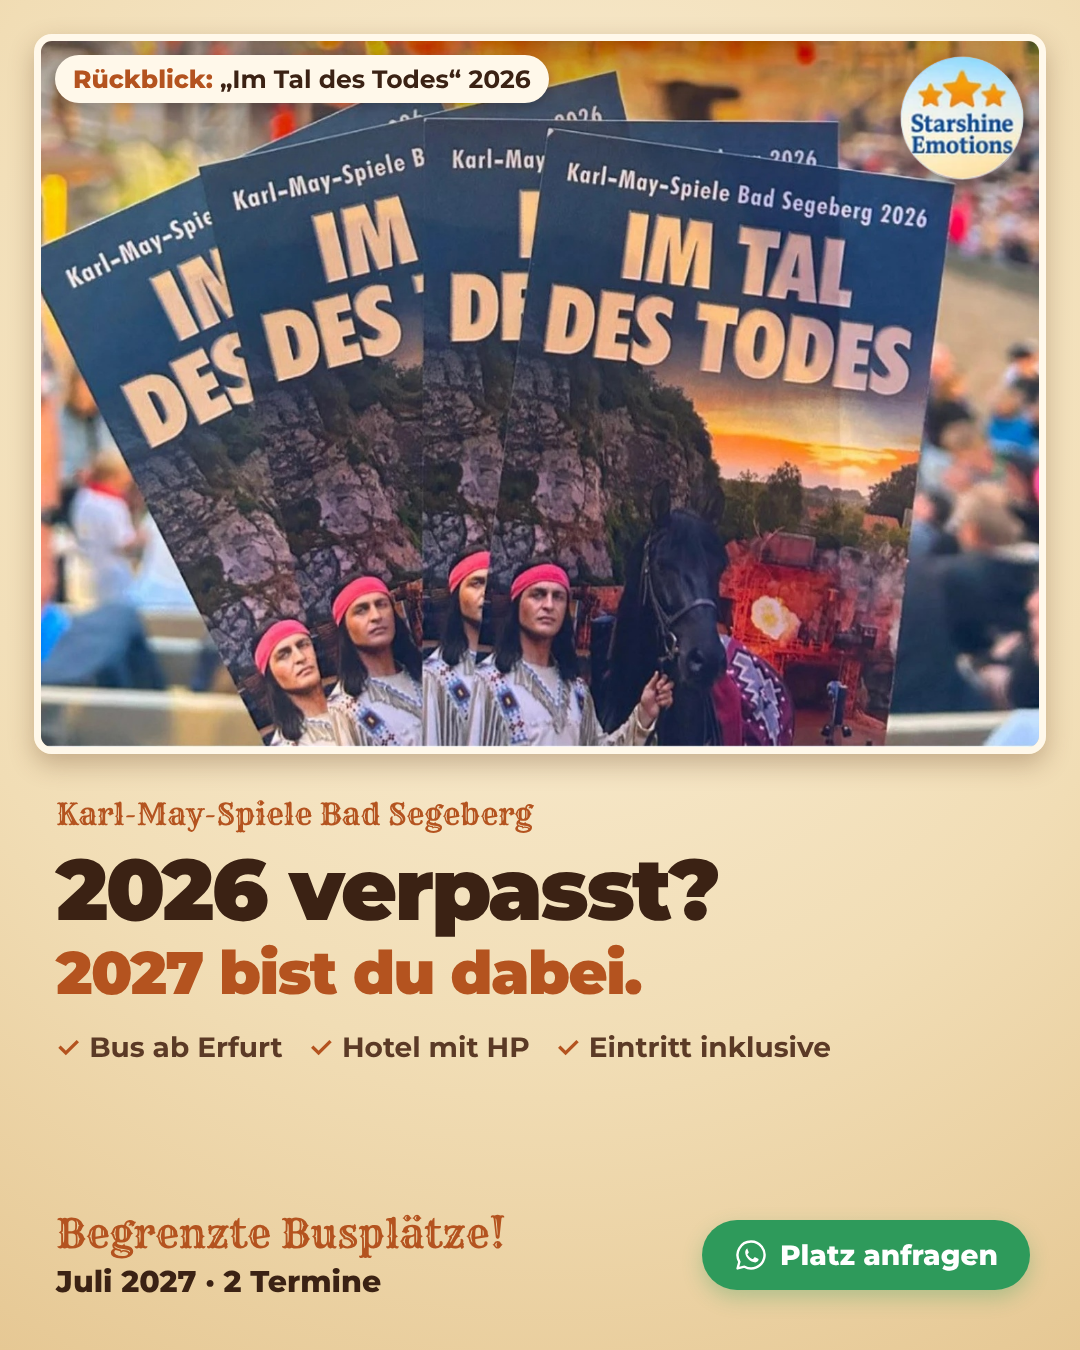
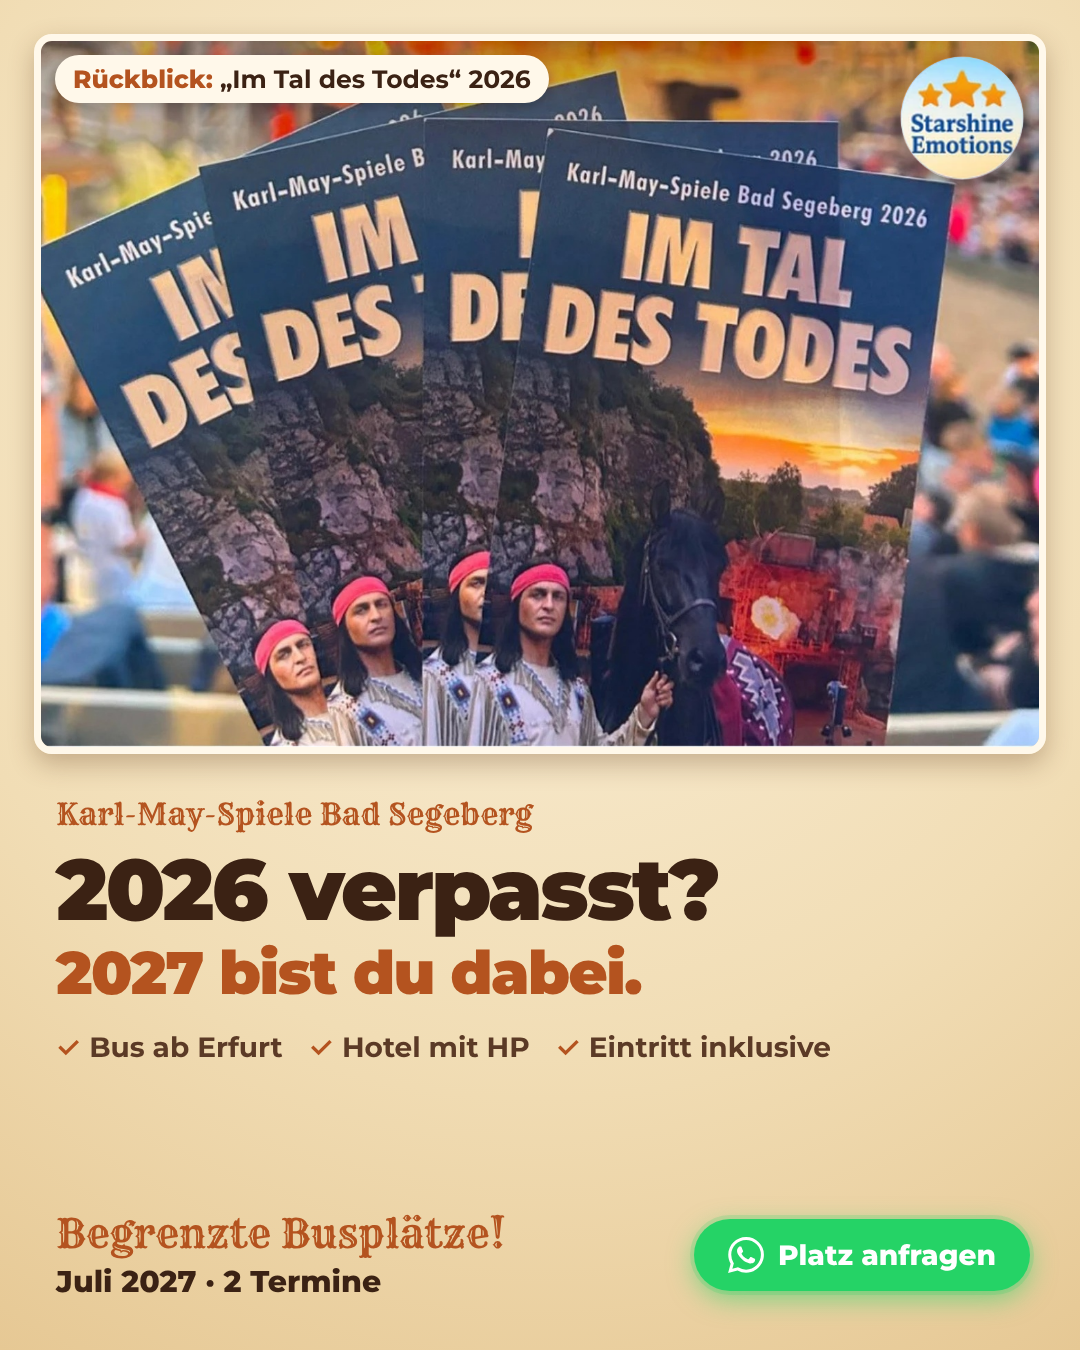
Official WhatsApp glyph and brighter button on posts 01/02; new western ticket post 04
Claude-Session: https://claude.ai/code/session_01MYsT5PUrxmX4pbkuNXz2ag

Changed region(s): [[0.6417, 0.9022, 0.9778, 0.9644]]

diff --git a/creatives/organic/04-mitfahren.html b/creatives/organic/04-mitfahren.html
@@ -1,22 +1,34 @@
 <!doctype html><html><head><meta charset="utf-8"><link href="https://fonts.googleapis.com/css2?family=Rye&family=Montserrat:wght@500;600;700;800;900&display=swap" rel="stylesheet"><link rel="stylesheet" href="_base.css"><style>
-.ad{background:#3a0d2e}
-.photo{position:absolute;left:0;top:0;width:1080px;height:601px;object-fit:cover}
-.fade{position:absolute;left:0;top:440px;width:1080px;height:182px;background:linear-gradient(180deg,rgba(58,13,46,0),#3a0d2e)}
-.k{position:absolute;top:44px;left:50px;font-family:Rye,serif;font-size:36px;color:#FBEBD0;text-shadow:0 2px 0 #6b2a12,0 4px 14px rgba(0,0,0,.6)}
-.card{position:absolute;left:50px;right:50px;top:560px;bottom:56px;background:#F6ECDD;border-radius:30px;padding:56px 56px 0;color:#3a0d2e;box-shadow:0 20px 50px rgba(0,0,0,.4)}
-.badge{position:absolute;top:-34px;right:40px;background:#D9342B;color:#fff;font-weight:900;font-size:26px;letter-spacing:1px;padding:16px 26px;border-radius:12px;transform:rotate(3deg);box-shadow:0 8px 20px rgba(0,0,0,.35)}
-.h{font-weight:900;font-size:62px;line-height:1.05;letter-spacing:-1.5px}
+.ad{background:radial-gradient(circle at 50% 30%,#FBF0D9 0%,#F1DDB5 60%,#E6C894 100%)}
+.photo{position:absolute;left:34px;right:34px;top:34px;height:560px;border-radius:18px;overflow:hidden;border:7px solid #FFF8EA;box-shadow:0 10px 26px rgba(90,50,20,.3)}
+.photo img{width:100%;height:100%;object-fit:cover;object-position:50% 70%;display:block}
+.photo span{position:absolute;left:14px;top:14px;background:#FFF8EA;color:#3B2214;font-weight:700;font-size:25px;padding:9px 18px;border-radius:24px;box-shadow:0 4px 12px rgba(0,0,0,.2)}
+.photo span b{color:#B4531F;font-weight:800}
+.h{position:absolute;left:56px;right:56px;top:628px;color:#3B2214;font-weight:900;font-size:66px;line-height:1.02;letter-spacing:-1.5px}
 .h em{font-style:normal;color:#B4531F}
-ul{list-style:none;margin-top:30px}
-li{font-weight:700;font-size:32px;padding:14px 0;border-bottom:1px solid rgba(58,13,46,.12);display:flex;gap:16px;align-items:center}
-li:last-child{border:none}
-li::before{content:"✓";display:inline-flex;align-items:center;justify-content:center;width:40px;height:40px;border-radius:50%;background:#3a0d2e;color:#F2C66D;font-weight:900;font-size:24px;flex:none}
-.wa{position:absolute;left:56px;bottom:44px;background:#25D366;color:#fff;font-weight:900;font-size:30px;border-radius:40px;padding:16px 34px}
+.ticket{position:absolute;left:44px;right:44px;top:810px;height:300px;background:#FFF8EA;border-radius:18px;box-shadow:0 10px 26px rgba(90,50,20,.22);display:flex}
+.ticket::before,.ticket::after{content:"";position:absolute;left:672px;width:44px;height:44px;border-radius:50%;background:#EFD9AE}
+.ticket::before{top:-22px}.ticket::after{bottom:-22px}
+.tl{flex:1;padding:32px 36px;border-right:3px dashed #D9B98A}
+.tl .t{font-family:Rye,serif;font-size:30px;color:#B4531F}
+.tl ul{list-style:none;margin-top:14px}
+.tl li{font-weight:700;font-size:29px;color:#3B2214;padding:8px 0}
+.tl li::before{content:"✓  ";color:#B4531F;font-weight:900}
+.tr{width:300px;display:flex;flex-direction:column;align-items:center;justify-content:center;text-align:center;color:#3B2214}
+.tr .m{font-weight:800;font-size:22px;letter-spacing:3px;color:#8A5A3A}
+.tr .d{font-family:Rye,serif;font-size:44px;color:#B4531F;line-height:1.15;margin-top:6px}
+.tr .o{font-weight:700;font-size:22px;color:#8A5A3A;margin:2px 0}
+.foot{position:absolute;left:56px;right:50px;bottom:46px;display:flex;align-items:center;justify-content:space-between}
+.info .lim{font-family:Rye,serif;font-size:40px;color:#B4531F}
+.cta{display:flex;align-items:center;gap:14px;background:#25D366;color:#fff;font-weight:800;font-size:28px;padding:18px 34px;border-radius:40px;box-shadow:0 0 0 4px rgba(37,211,102,.18),0 8px 26px rgba(37,211,102,.55)}
 </style></head><body><div class="ad">
-<img class="photo" src="km-buehne.jpg"><div class="fade"></div>
-<div class="k">Karl-May-Spiele</div><img class="logo" src="logo-starshine.png">
-<div class="card"><div class="badge">Begrenzte Plätze!</div>
-<div class="h">Sommer 2027 – <em>kommst du mit?</em></div>
-<ul><li>Bequem im Reisebus ab Erfurt</li><li>2 Nächte im Hotel mit Halbpension</li><li>Eintrittskarte schon inklusive</li><li>07.–09.07. oder 18.–20.07.2027</li></ul>
-<div class="wa">Infos per WhatsApp →</div></div>
+<div class="photo"><img src="km-buehne.jpg"><span><b>Freilichtbühne</b> am Kalkberg</span></div>
+<img class="logo" src="logo-starshine.png" style="top:56px;right:56px">
+<div class="h">Wir fahren hin –<br><em>kommst du mit?</em></div>
+<div class="ticket">
+ <div class="tl"><div class="t">Dein Ticket in den Wilden Westen</div>
+  <ul><li>Bequem im Reisebus ab Erfurt</li><li>2 Nächte im Hotel mit Halbpension</li><li>Eintrittskarte inklusive</li></ul></div>
+ <div class="tr"><div class="m">JULI 2027</div><div class="d">07.–09.07.</div><div class="o">oder</div><div class="d">18.–20.07.</div></div>
+</div>
+<div class="foot"><div class="info"><span class="lim">Begrenzte Busplätze!</span></div><div class="cta"><svg width="36" height="36" viewBox="0 0 24 24"><path fill="#fff" d="M17.472 14.382c-.297-.149-1.758-.867-2.03-.967-.273-.099-.471-.148-.67.15-.197.297-.767.966-.94 1.164-.173.199-.347.223-.644.075-.297-.15-1.255-.463-2.39-1.475-.883-.788-1.48-1.761-1.653-2.059-.173-.297-.018-.458.13-.606.134-.133.298-.347.446-.52.149-.174.198-.298.298-.497.099-.198.05-.371-.025-.52-.075-.149-.669-1.612-.916-2.207-.242-.579-.487-.5-.669-.51-.173-.008-.371-.01-.57-.01-.198 0-.52.074-.792.372-.272.297-1.04 1.016-1.04 2.479 0 1.462 1.065 2.875 1.213 3.074.149.198 2.096 3.2 5.077 4.487.709.306 1.262.489 1.694.625.712.227 1.36.195 1.871.118.571-.085 1.758-.719 2.006-1.413.248-.694.248-1.289.173-1.413-.074-.124-.272-.198-.57-.347m-5.421 7.403h-.004a9.87 9.87 0 01-5.031-1.378l-.361-.214-3.741.982.998-3.648-.235-.374a9.86 9.86 0 01-1.51-5.26c.001-5.45 4.436-9.884 9.888-9.884 2.64 0 5.122 1.03 6.988 2.898a9.825 9.825 0 012.893 6.994c-.003 5.45-4.437 9.884-9.885 9.884m8.413-18.297A11.815 11.815 0 0012.05 0C5.495 0 .16 5.335.157 11.892c0 2.096.547 4.142 1.588 5.945L.057 24l6.305-1.654a11.882 11.882 0 005.683 1.448h.005c6.554 0 11.89-5.335 11.893-11.893a11.821 11.821 0 00-3.48-8.413Z"/></svg>Platz anfragen</div></div>
 </div></body></html>

diff --git a/creatives/organic/01-kulisse.html b/creatives/organic/01-kulisse.html
@@ -13,7 +13,7 @@
 .foot{position:absolute;left:50px;right:50px;bottom:50px;display:flex;align-items:center;justify-content:space-between}
 .info{color:#3B2214;font-weight:800;font-size:30px;line-height:1.2}
 .info .lim{font-family:Rye,serif;font-weight:400;font-size:40px;color:#B4531F;display:block;margin-bottom:6px}
-.cta{display:flex;align-items:center;gap:12px;background:#2E9A5B;color:#fff;font-weight:800;font-size:28px;padding:18px 32px;border-radius:40px;box-shadow:0 8px 20px rgba(46,154,91,.3)}
+.cta{display:flex;align-items:center;gap:14px;background:#25D366;color:#fff;font-weight:800;font-size:28px;padding:18px 34px;border-radius:40px;box-shadow:0 0 0 4px rgba(37,211,102,.18),0 8px 26px rgba(37,211,102,.55)}
 </style></head><body><div class="ad">
 <img class="logo" src="logo-starshine.png">
 <div class="top"><div class="k">Karl-May-Spiele Bad Segeberg</div><div class="h">200.000+ Besucher 2026.<br><em>Bist du 2027 dabei?</em></div></div>
@@ -22,5 +22,5 @@
  <div class="c"><img src="km-flyer.jpg" style="object-position:72% 70%"><span><b>Winnetou</b> auf Iltschi · 2026</span></div>
  <div class="c"><img src="km-kulisse-sets.jpg" style="object-position:40% 60%"><span><b>7.500+ Plätze</b> open air</span></div>
 </div>
-<div class="foot"><div class="info"><span class="lim">Begrenzte Busplätze!</span>Juli 2027 · ab Erfurt</div><div class="cta"><svg width="34" height="34" viewBox="0 0 48 48" fill="none" stroke="#fff" stroke-width="3.4" stroke-linejoin="round"><path d="M24 5a19 19 0 0 0-16.4 28.6L5 43l9.7-2.5A19 19 0 1 0 24 5z"/><path fill="#fff" stroke="none" d="M17.6 14.6c.5 0 1 0 1.3.8l1.8 4.3c.2.4.1.9-.2 1.3l-1.3 1.6c-.3.3-.3.8 0 1.2 1.6 2.7 3.8 4.6 6.6 5.9.4.2.9.1 1.2-.2l1.6-1.9c.3-.4.8-.5 1.3-.3l4.2 2c.5.2.7.7.6 1.2-.3 2.3-2.3 4-4.6 4-7.4-.5-13.7-6.6-14.3-14 0-2.6 1.6-5.7 3.8-5.9z"/></svg>Platz anfragen</div></div>
+<div class="foot"><div class="info"><span class="lim">Begrenzte Busplätze!</span>Juli 2027 · ab Erfurt</div><div class="cta"><svg width="36" height="36" viewBox="0 0 24 24"><path fill="#fff" d="M17.472 14.382c-.297-.149-1.758-.867-2.03-.967-.273-.099-.471-.148-.67.15-.197.297-.767.966-.94 1.164-.173.199-.347.223-.644.075-.297-.15-1.255-.463-2.39-1.475-.883-.788-1.48-1.761-1.653-2.059-.173-.297-.018-.458.13-.606.134-.133.298-.347.446-.52.149-.174.198-.298.298-.497.099-.198.05-.371-.025-.52-.075-.149-.669-1.612-.916-2.207-.242-.579-.487-.5-.669-.51-.173-.008-.371-.01-.57-.01-.198 0-.52.074-.792.372-.272.297-1.04 1.016-1.04 2.479 0 1.462 1.065 2.875 1.213 3.074.149.198 2.096 3.2 5.077 4.487.709.306 1.262.489 1.694.625.712.227 1.36.195 1.871.118.571-.085 1.758-.719 2.006-1.413.248-.694.248-1.289.173-1.413-.074-.124-.272-.198-.57-.347m-5.421 7.403h-.004a9.87 9.87 0 01-5.031-1.378l-.361-.214-3.741.982.998-3.648-.235-.374a9.86 9.86 0 01-1.51-5.26c.001-5.45 4.436-9.884 9.888-9.884 2.64 0 5.122 1.03 6.988 2.898a9.825 9.825 0 012.893 6.994c-.003 5.45-4.437 9.884-9.885 9.884m8.413-18.297A11.815 11.815 0 0012.05 0C5.495 0 .16 5.335.157 11.892c0 2.096.547 4.142 1.588 5.945L.057 24l6.305-1.654a11.882 11.882 0 005.683 1.448h.005c6.554 0 11.89-5.335 11.893-11.893a11.821 11.821 0 00-3.48-8.413Z"/></svg>Platz anfragen</div></div>
 </div></body></html>

diff --git a/creatives/organic/02-rueckblick.html b/creatives/organic/02-rueckblick.html
@@ -12,7 +12,7 @@
 .foot{position:absolute;left:56px;right:50px;bottom:50px;display:flex;align-items:center;justify-content:space-between}
 .info{color:#3B2214;font-weight:800;font-size:30px;line-height:1.2}
 .info .lim{font-family:Rye,serif;font-weight:400;font-size:40px;color:#B4531F;display:block;margin-bottom:6px}
-.cta{display:flex;align-items:center;gap:12px;background:#2E9A5B;color:#fff;font-weight:800;font-size:28px;padding:18px 32px;border-radius:40px;box-shadow:0 8px 20px rgba(46,154,91,.3)}
+.cta{display:flex;align-items:center;gap:14px;background:#25D366;color:#fff;font-weight:800;font-size:28px;padding:18px 34px;border-radius:40px;box-shadow:0 0 0 4px rgba(37,211,102,.18),0 8px 26px rgba(37,211,102,.55)}
 </style></head><body><div class="ad">
 <div class="photo"><img src="km-flyer.jpg"><span><b>Rückblick:</b> „Im Tal des Todes“ 2026</span></div>
 <img class="logo" src="logo-starshine.png" style="top:56px;right:56px">
@@ -20,5 +20,5 @@
 <div class="h">2026 verpasst?</div>
 <div class="h2">2027 bist du dabei.</div>
 <div class="sub"><span>Bus ab Erfurt</span><span>Hotel mit HP</span><span>Eintritt inklusive</span></div></div>
-<div class="foot"><div class="info"><span class="lim">Begrenzte Busplätze!</span>Juli 2027 · 2 Termine</div><div class="cta"><svg width="34" height="34" viewBox="0 0 48 48" fill="none" stroke="#fff" stroke-width="3.4" stroke-linejoin="round"><path d="M24 5a19 19 0 0 0-16.4 28.6L5 43l9.7-2.5A19 19 0 1 0 24 5z"/><path fill="#fff" stroke="none" d="M17.6 14.6c.5 0 1 0 1.3.8l1.8 4.3c.2.4.1.9-.2 1.3l-1.3 1.6c-.3.3-.3.8 0 1.2 1.6 2.7 3.8 4.6 6.6 5.9.4.2.9.1 1.2-.2l1.6-1.9c.3-.4.8-.5 1.3-.3l4.2 2c.5.2.7.7.6 1.2-.3 2.3-2.3 4-4.6 4-7.4-.5-13.7-6.6-14.3-14 0-2.6 1.6-5.7 3.8-5.9z"/></svg>Platz anfragen</div></div>
+<div class="foot"><div class="info"><span class="lim">Begrenzte Busplätze!</span>Juli 2027 · 2 Termine</div><div class="cta"><svg width="36" height="36" viewBox="0 0 24 24"><path fill="#fff" d="M17.472 14.382c-.297-.149-1.758-.867-2.03-.967-.273-.099-.471-.148-.67.15-.197.297-.767.966-.94 1.164-.173.199-.347.223-.644.075-.297-.15-1.255-.463-2.39-1.475-.883-.788-1.48-1.761-1.653-2.059-.173-.297-.018-.458.13-.606.134-.133.298-.347.446-.52.149-.174.198-.298.298-.497.099-.198.05-.371-.025-.52-.075-.149-.669-1.612-.916-2.207-.242-.579-.487-.5-.669-.51-.173-.008-.371-.01-.57-.01-.198 0-.52.074-.792.372-.272.297-1.04 1.016-1.04 2.479 0 1.462 1.065 2.875 1.213 3.074.149.198 2.096 3.2 5.077 4.487.709.306 1.262.489 1.694.625.712.227 1.36.195 1.871.118.571-.085 1.758-.719 2.006-1.413.248-.694.248-1.289.173-1.413-.074-.124-.272-.198-.57-.347m-5.421 7.403h-.004a9.87 9.87 0 01-5.031-1.378l-.361-.214-3.741.982.998-3.648-.235-.374a9.86 9.86 0 01-1.51-5.26c.001-5.45 4.436-9.884 9.888-9.884 2.64 0 5.122 1.03 6.988 2.898a9.825 9.825 0 012.893 6.994c-.003 5.45-4.437 9.884-9.885 9.884m8.413-18.297A11.815 11.815 0 0012.05 0C5.495 0 .16 5.335.157 11.892c0 2.096.547 4.142 1.588 5.945L.057 24l6.305-1.654a11.882 11.882 0 005.683 1.448h.005c6.554 0 11.89-5.335 11.893-11.893a11.821 11.821 0 00-3.48-8.413Z"/></svg>Platz anfragen</div></div>
 </div></body></html>

diff --git a/creatives/organic/captions.md b/creatives/organic/captions.md
@@ -48,16 +48,17 @@ Wenn am Ende der Vorstellung der Himmel über dem Kalkberg explodiert, hält das
 
 ---
 
-## 04 – Sommer 2027: Kommst du mit? (`04-mitfahren.png`)
-🚨 Begrenzte Plätze: Sommer 2027 – kommst du mit? 🤠
+## 04 – Wir fahren hin – kommst du mit? (`04-mitfahren.png`)
+Wir fahren hin – kommst du mit? 🤠🎟
 
-Lehn dich zurück, wir kümmern uns um alles:
+Dein Ticket in den Wilden Westen: Im Juli 2027 geht's mit uns zur Freilichtbühne am Kalkberg in Bad Segeberg – eine der größten Freilichtbühnen Europas mit über 7.500 Plätzen.
+
 🚌 Bequem im Reisebus ab Erfurt
 🏨 2 Nächte im Hotel mit Halbpension
-🎟 Eintrittskarte schon inklusive
+🎟 Eintrittskarte inklusive
 📅 07.–09.07. oder 18.–20.07.2027
 
-Ideal mit Freunden, Familie oder dem Verein. Die Plätze im Bus sind begrenzt – sichere dir deinen Platz, bevor's zu spät ist!
-👉 Infos & Anmeldung per WhatsApp
+Ideal mit Freunden, Familie oder dem Verein. ⚠ Die Busplätze sind begrenzt – sichere dir deinen Platz, bevor's zu spät ist!
+👉 Jetzt per WhatsApp Platz anfragen
 
 #KarlMaySpiele2027 #BadSegeberg #Busreise #Gruppenreise #Erfurt #Thüringen #Vereinsausflug
